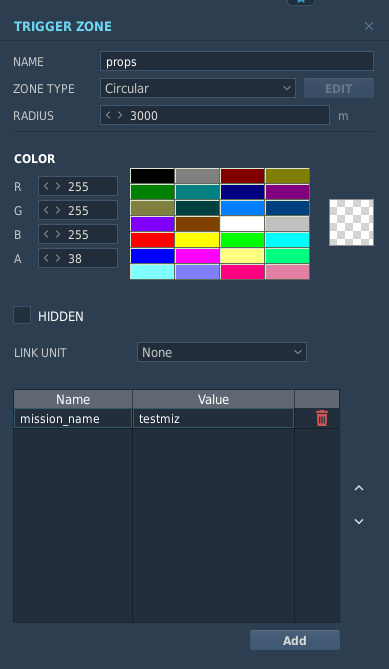
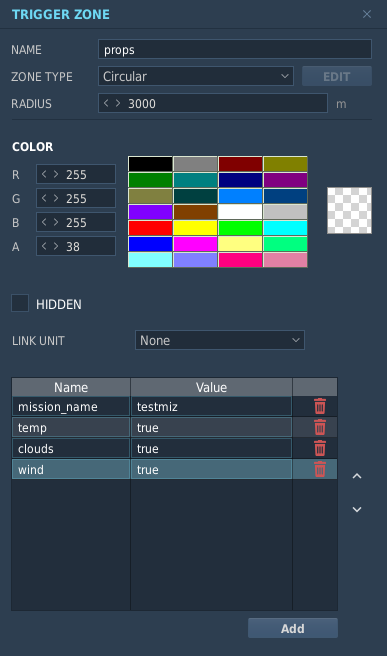
added temp, clouds, and wind randomization

diff --git a/README.md b/README.md
@@ -37,7 +37,7 @@ base.dofile(lfs.writedir()..'Scripts/TimePersistence/MissionTimePersistenceLoad.
   end
   ```
    
-7. To enable time persistence for a mission you will have to add a trigger zone in the mission, anywhere on the map, and name it "props". Then create a property on that triggerzone called ``mission_name`` and set its value to something unique to your mission. This will be used to identify which time persistence file to load for each mission.
+7. To enable time persistence for a mission you will have to add a trigger zone in the mission, anywhere on the map, and name it "props". Then create a property on that triggerzone called ``mission_name`` and set its value to something unique to your mission. This will be used to identify which time persistence file to load for each mission. You can also activate randomization of temperature, clouds and wind. See image below
 
 ![Trigger zone example](/triggerzone.png)
 
